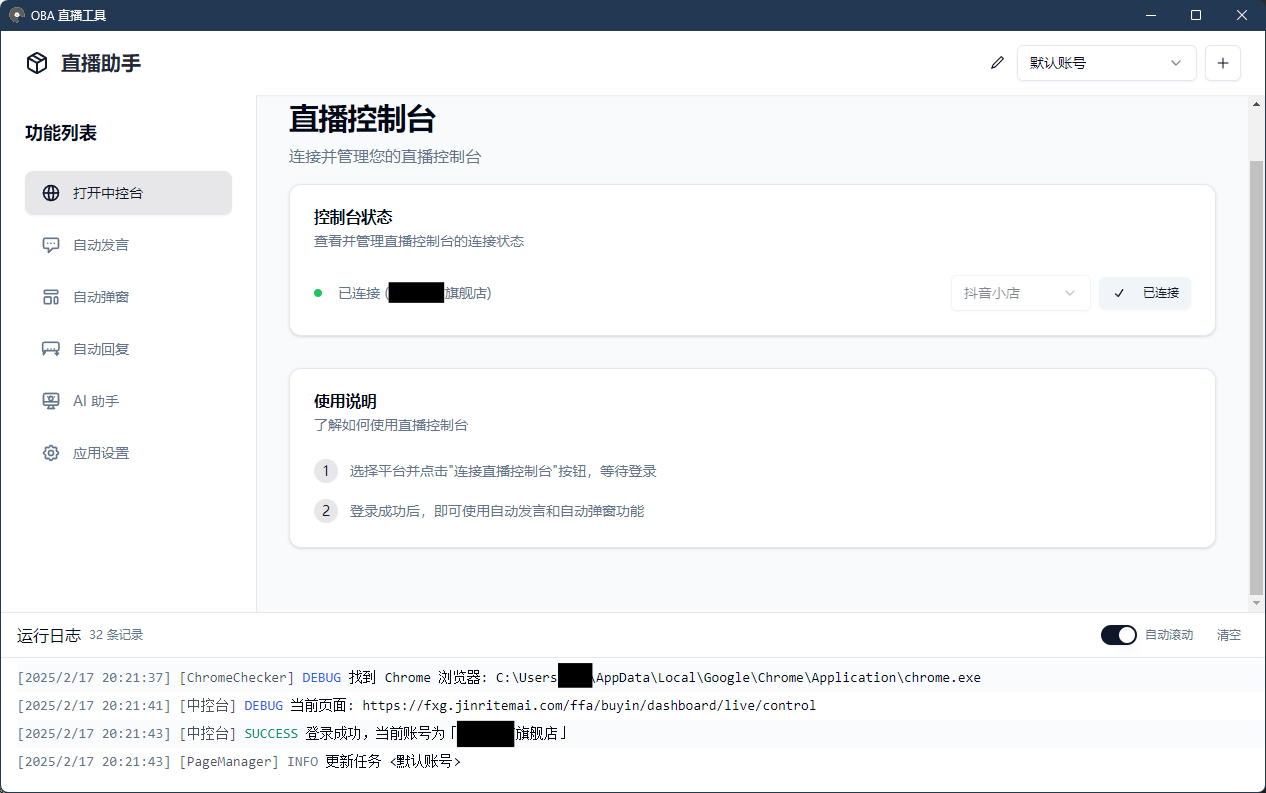
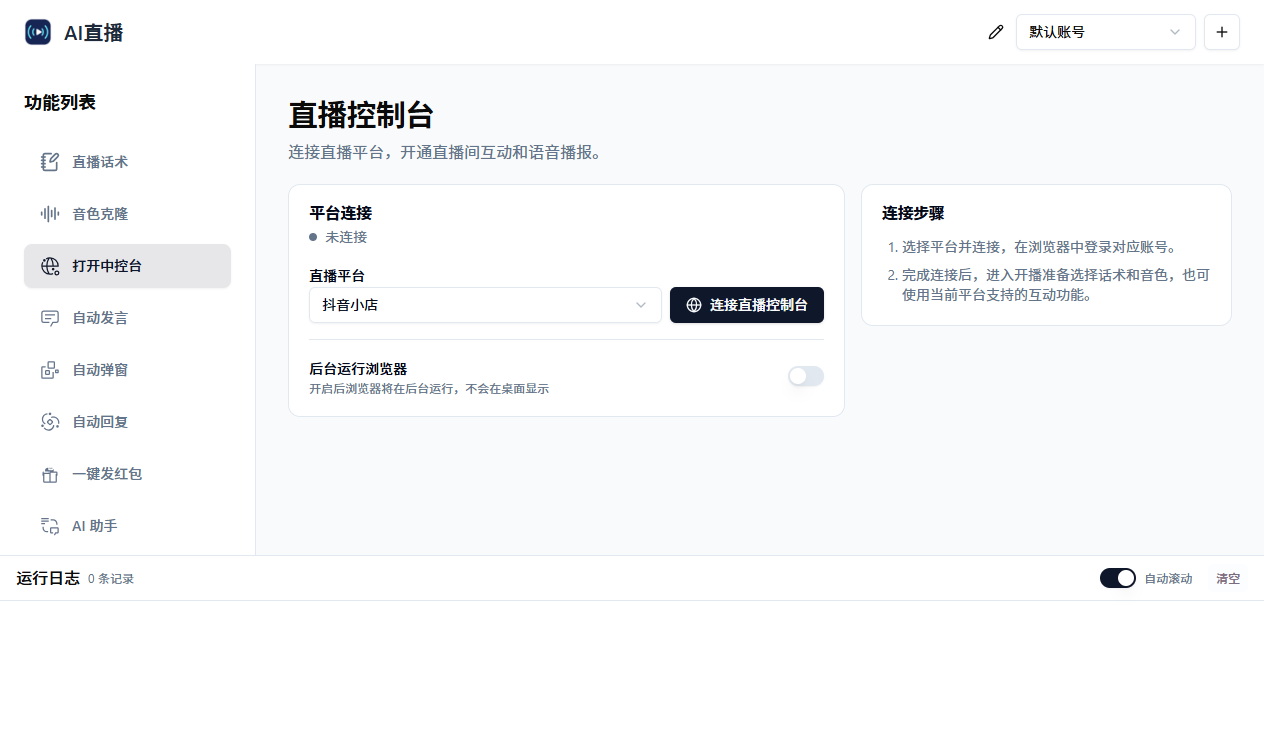
chore: rebrand desktop app as AI Live

diff --git a/electron/main/index.ts b/electron/main/index.ts
@@ -1,28 +1,39 @@
-import { mkdirSync } from 'node:fs'
+import { existsSync, mkdirSync, renameSync } from 'node:fs'
 import path from 'node:path'
 import { app, dialog } from 'electron'
+import { productName } from '../../electron-builder.json'
+import { name } from '../../package.json'
 
-/** 将新软件的本地数据与旧项目隔离，首次安装从空白配置启动。 */
+/** 保留已安装版本的账号、话术和密钥，首次启动时迁移原数据目录。 */
 function configureApplicationIdentity() {
-  const userDataPath = path.join(app.getPath('appData'), 'xinghe-ai-live')
+  const appDataPath = app.getPath('appData')
+  const userDataPath = path.join(appDataPath, name)
+  const legacyPath = path.join(appDataPath, 'xinghe-ai-live')
+  if (!existsSync(userDataPath) && existsSync(legacyPath)) {
+    try {
+      renameSync(legacyPath, userDataPath)
+    } catch (error) {
+      // 另一个实例可能已完成迁移。
+      if (!existsSync(userDataPath) || existsSync(legacyPath)) throw error
+    }
+  }
   mkdirSync(userDataPath, { recursive: true })
   app.setPath('userData', userDataPath)
-  app.setName('星河AI直播')
+  app.setName(productName)
 }
 
 if (typeof process.setSourceMapsEnabled === 'function') {
   process.setSourceMapsEnabled(true)
 }
 
-configureApplicationIdentity()
-
-/** 主进程依赖加载失败时明确退出并显示原因，避免残留一个无窗口的后台进程。 */
+/** 初始化失败时明确退出并显示原因，避免残留一个无窗口的后台进程。 */
 async function startApplication() {
   try {
+    configureApplicationIdentity()
     await import('./app')
   } catch (error) {
     const message = error instanceof Error ? error.message : String(error)
-    dialog.showErrorBox('星河AI直播启动失败', `程序文件不完整或无法加载：\n${message}`)
+    dialog.showErrorBox(`${productName}启动失败`, message)
     app.exit(1)
   }
 }

diff --git a/electron/main/app.ts b/electron/main/app.ts
@@ -4,6 +4,7 @@ import process from 'node:process'
 import { fileURLToPath } from 'node:url'
 import { app, BrowserWindow, dialog, ipcMain, shell } from 'electron'
 import { IPC_CHANNELS } from 'shared/ipcChannels'
+import { appId } from '../../electron-builder.json'
 import { emitter } from './event/eventBus'
 import { providerService } from './services/ProviderService'
 import windowManager from './windowManager'
@@ -75,7 +76,7 @@ app.commandLine.appendSwitch('remote-debugging-port', '9222')
 if (os.release().startsWith('6.1')) app.disableHardwareAcceleration()
 
 // Set application name for Windows 10+ notifications
-if (process.platform === 'win32') app.setAppUserModelId('com.xinghe.ai.live')
+if (process.platform === 'win32') app.setAppUserModelId(appId)
 
 if (!app.requestSingleInstanceLock()) {
   app.quit()
@@ -88,7 +89,7 @@ const indexHtml = path.join(RENDERER_DIST, 'index.html')
 
 async function createWindow() {
   win = new BrowserWindow({
-    title: `星河AI直播 - v${app.getVersion()}`,
+    title: `${app.getName()} - v${app.getVersion()}`,
     width: 1280,
     height: 800,
     autoHideMenuBar: app.isPackaged,

diff --git a/src/components/update/UpdateDialog.tsx b/src/components/update/UpdateDialog.tsx
@@ -7,6 +7,7 @@ import { Dialog, DialogContent, DialogDescription, DialogTitle } from '@/compone
 import { Progress } from '@/components/ui/progress'
 import { useIpcListener } from '@/hooks/useIpc'
 import { useUpdateConfigStore, useUpdateStore } from '@/hooks/useUpdate'
+import { productName } from '../../../electron-builder.json'
 
 /** 在全局显示发行说明、下载进度和重启安装入口。 */
 export function UpdateDialog() {
@@ -26,7 +27,7 @@ export function UpdateDialog() {
   return (
     <Dialog open={open} onOpenChange={setOpen}>
       <DialogContent className="sm:max-w-lg">
-        <DialogTitle>{info ? `星河 AI 直播 v${info.latestVersion}` : '软件更新'}</DialogTitle>
+        <DialogTitle>{info ? `${productName} v${info.latestVersion}` : '软件更新'}</DialogTitle>
         <DialogDescription>
           {info ? `当前版本 v${info.currentVersion} · GitHub Releases` : '检查 GitHub 上的正式版本'}
         </DialogDescription>

diff --git a/electron/main/managers/UpdateManager.ts b/electron/main/managers/UpdateManager.ts
@@ -4,6 +4,7 @@ import type { AppUpdater, ProgressInfo } from 'electron-updater'
 import type { AppUpdate } from 'shared/appUpdate'
 import { IPC_CHANNELS } from 'shared/ipcChannels'
 import windowManager from '#/windowManager'
+import { name } from '../../../package.json'
 import { createLogger } from '../logger'
 import { releaseApi, selectAppUpdate } from './githubRelease'
 
@@ -21,7 +22,7 @@ class UpdateManager {
     if (!app.isPackaged) return
     const response = await net.fetch(releaseApi, {
       signal: AbortSignal.timeout(12_000),
-      headers: { Accept: 'application/vnd.github+json', 'User-Agent': 'xinghe-ai-live' },
+      headers: { Accept: 'application/vnd.github+json', 'User-Agent': name },
     })
     if (response.status === 404) {
       this.available = undefined

diff --git a/src/components/common/Header.tsx b/src/components/common/Header.tsx
@@ -1,12 +1,14 @@
+import { productName } from '../../../electron-builder.json'
 import { AccountSwitcher } from './AccountSwitcher'
 
+/** 显示软件名称、图标和直播账号切换入口。 */
 export function Header() {
   return (
     <header className="w-full bg-white shadow-xs px-6 flex h-16 items-center justify-between">
       {/* <div className=""> */}
       <div className="flex items-center gap-3">
         <img src="favicon.png" alt="" className="h-7 w-7" />
-        <h1 className="text-lg font-semibold text-gray-800 sm:text-xl">星河AI直播</h1>
+        <h1 className="text-lg font-semibold text-gray-800 sm:text-xl">{productName}</h1>
       </div>
 
       <div className="flex items-center">

diff --git a/index.html b/index.html
@@ -2,7 +2,7 @@
 <html lang="zh-CN">
   <head>
     <meta charset="UTF-8" />
-    <title>星河AI直播</title>
+    <title>AI直播</title>
     <link rel="icon" type="image/x-icon" href="/favicon.ico" />
     <meta name="viewport" content="width=device-width, initial-scale=1.0" />
     <meta http-equiv="Content-Security-Policy" content="script-src 'self' 'unsafe-inline';" />

diff --git a/docs/live-voice.md b/docs/live-voice.md
@@ -99,10 +99,10 @@
 
 ### 本地保存位置
 
-正常使用 `pnpm dev` 时，Windows 用户数据目录为 `%APPDATA%\oba-live-tool`（可粘贴到资源管理器地址栏）：
+Windows 用户数据目录为 `%APPDATA%\ai-live`（可粘贴到资源管理器地址栏）。从更名前的版本升级时，首次启动会把旧数据目录迁移到这里。
 
 - 话术和声音配置：`Local Storage\leveldb` 中的 `voice-config`，保存的版本在各账号的 `savedScripts` 内。
-- TTS Key：`tts-keys\mimo.bin`、`lanyun.bin`、`qwen.bin`、`openai-compatible.bin`，使用 Electron `safeStorage` 加密，不能直接当作文本打开。加密上下文与配置目录有关，跨目录恢复需先解密再在目标环境中加密，单独复制 `.bin` 无法保证可用。
+- TTS Key：`tts-keys\mimo.bin`、`lanyun.bin`、`qwen.bin`、`openai-compatible.bin`，使用 Electron `safeStorage` 加密，不能直接当作文本打开。单独复制 `.bin` 无法保证可用。macOS 升级后若旧版密钥无法读取，请在语音合成设置里重新保存。
 - LLM Key：同一 `Local Storage\leveldb` 中的 `ai-chat-storage`，当前随 AI 配置明文持久化，尚未接入 `safeStorage`。AI 助手/写稿和自动回复的配置分别保存。
 
 此前由开发助手启动的隔离预览使用项目下 `test-results\voice-preview-profile`，并通过 `http://127.0.0.1:7777` 访问；它与正常开发启动使用不同的数据目录和来源。正常 `pnpm dev` 固定为 `http://localhost:5173`，端口冲突会直接报错，避免自动切到新端口后读取到空配置。话术还按直播账号隔离，切换账号会看到对应的话术库。

diff --git a/README.md b/README.md
@@ -1,7 +1,7 @@
 <div align="center">
 
   <img src="./public/favicon.png" alt="logo" width="256px" height="auto">
-  <h1>星河AI直播</h1>
+  <h1>AI直播</h1>
   <p> 抖音小店/巨量百应/抖音团购/小红书/视频号/快手小店/淘宝直播小工具 </p>
   <br>
 
@@ -45,7 +45,7 @@
 
 ### 下载安装
 
-从 [星河 AI 直播 Releases](https://github.com/zhanggc2019/ai-live/releases/latest) 下载最新安装包。
+从 [AI直播 Releases](https://github.com/zhanggc2019/ai-live/releases/latest) 下载最新安装包。若从更名前的版本升级，请先退出旧版，再手动运行新版安装包。
 
 ### 源码构建
 
